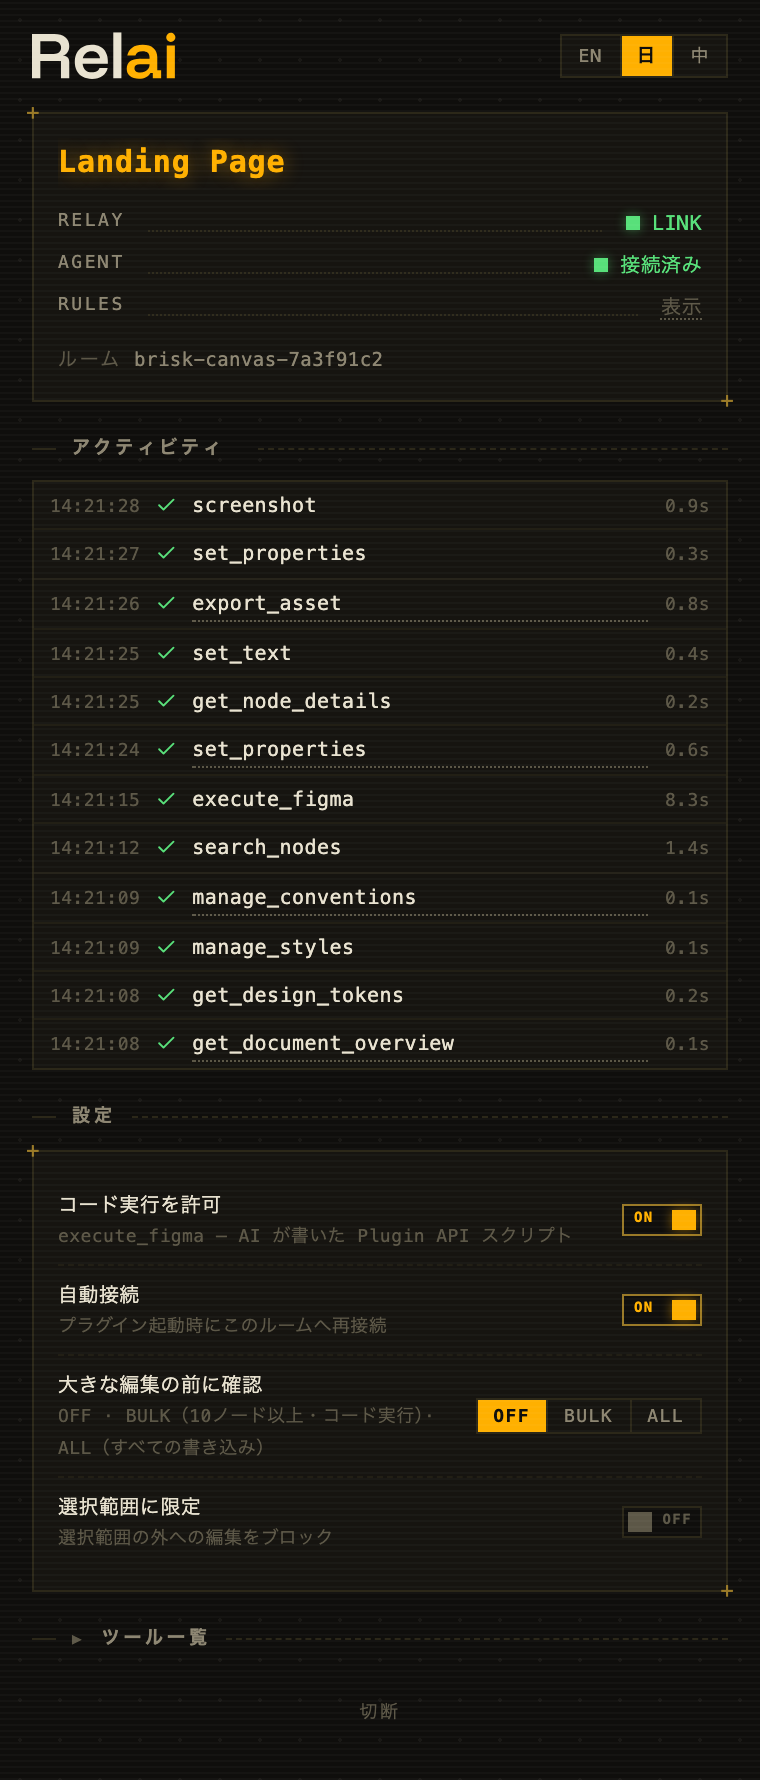
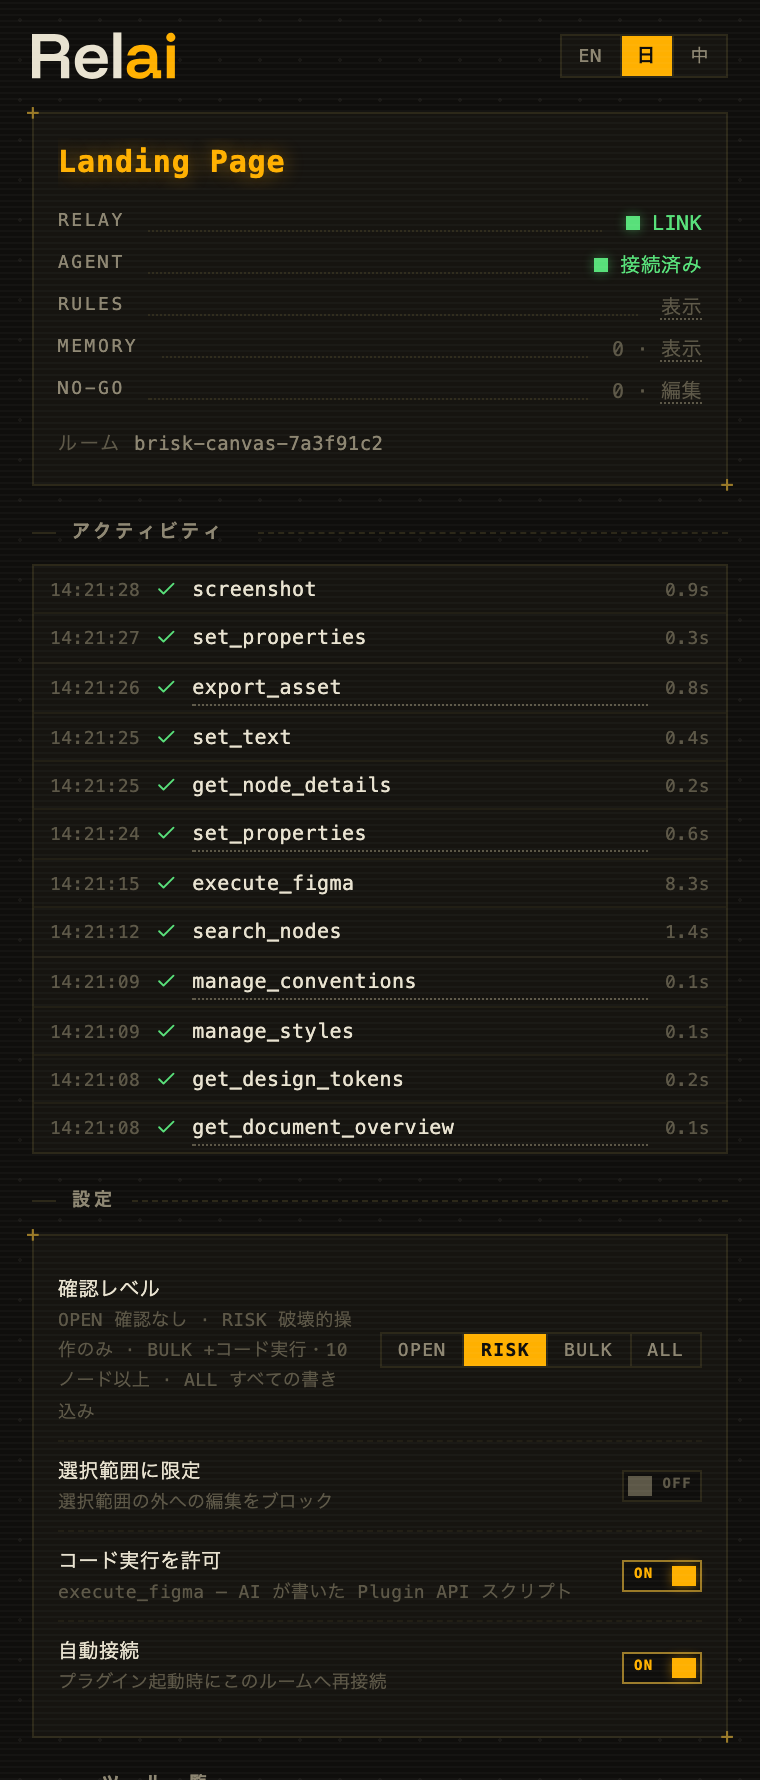
Site: NOW & NEXT — a plain statement of where this stands and where it goes; fresh panel shots
The outlook section says it flatly: today = thirty-two tools plus the laws
a file carries, built nightly inside one production design system; next =
rulings grow into rules, rules into enforcement, enforcement into review —
no generation races, nothing that acts without a trace, no dated promises.
Panel screenshots re-rendered for the law cluster + four-stop dial (both
sets, three locales). JA FAQ drops the Sino-flavored 禁区 for 立入禁止
(NO-GO).

Claude-Session: https://claude.ai/code/session_01LE9DxpFc66NXBEVTWs7co9

diff --git a/site/src/lib/translations.ts b/site/src/lib/translations.ts
@@ -90,6 +90,13 @@ export const translations = {
       ],
       caption: 'Numbers from real sessions on a production design system, July 2026.'
     },
+    outlook: {
+      eyebrow: 'NOW & NEXT',
+      title: 'Where this stands, and where it goes.',
+      p1: 'Today, Relai is thirty-two tools and a set of laws a file can carry: conventions you write, precedents you rule, pages you fence off. An agent reads them before working, asks at the level you set — one dial, four stops — and leaves receipts for everything. All of it is built and tested inside one production design system, nightly.',
+      p2: 'What comes next follows a single line: rulings grow into rules, rules into enforcement, enforcement into review. More of your judgment should outlive the session it happened in — promoted, with your consent, into things the file itself upholds. Someday, craft packs worth sharing between teams, with provenance. Not on the roadmap: generation races, and anything that acts without leaving a trace.',
+      p3: 'None of this is a promise with a date. It is a direction, checked against real work.'
+    },
     start: {
       eyebrow: 'GET STARTED',
       title: 'Three steps. No paid plan required.',
@@ -213,6 +220,13 @@ export const translations = {
       ],
       caption: '数値はすべて、実運用中のデザインシステムでの実セッションから。2026年7月。'
     },
+    outlook: {
+      eyebrow: 'NOW & NEXT',
+      title: 'いまの姿と、この先。',
+      p1: 'いまのRelaiは、32のツールと、ファイルが携える法——あなたが書く規約、あなたが下す判例、立ち入らせないページ——です。エージェントは働く前にそれを読み、あなたが決めたレベルで確認を取り（ダイヤルひとつ、4段階）、すべてに記録を残します。その全部が、ひとつの実運用デザインシステムの中で毎晩使われながら作られています。',
+      p2: 'この先は一本の線に沿って進みます。裁定は規約に、規約は執行に、執行はレビューに育っていく。あなたの判断が、その場かぎりで消えないこと——あなたの同意のもとで、ファイル自身が守るものへ昇格していくこと。いつか、出どころ付きでチーム間に共有できる工法集も。ロードマップに載らないもの:生成の速さ比べと、痕跡を残さず動くすべて。',
+      p3: '日付つきの約束ではありません。実際の仕事で確かめながら進む、方向です。'
+    },
     start: {
       eyebrow: 'GET STARTED',
       title: '3ステップ。有料プランは不要。',
@@ -233,7 +247,7 @@ export const translations = {
         { q: 'どのAIクライアントで動作しますか？', a: 'Claude Code、Cursor、Codexなど、あらゆるMCPクライアントで動作します。RelaiをMCPサーバーとして一度登録するだけです。' },
         { q: 'ファイルの内容はどこかに送られますか？', a: '新しい宛先はありません。リレーはローカルで動き、ファイルの内容はFigma、あなたのマシン、そして普段から信頼しているAIクライアントの間にとどまります。' },
         { q: 'ファイルは何を記憶しますか？消せますか？', a: '0.3から、ファイルは判例——あなたが下した裁定——を持てます。記録されるのは、あなたかAIが明示的に記録したときだけ。パネルのMEMORY行に全件が並び、いつでも削除できます。黙って記録されるものはありません。' },
-        { q: 'AIに触らせたくないページを守れますか？', a: 'はい。パネルでページ単位の「AI禁区」を設定でき、禁区への書き込みはディスパッチ段階で明確なエラーとして拒否されます。確認は4段階のダイヤル（OPEN · RISK · BULK · ALL）に統合されています。既定のRISKでは、破壊的操作（変数/スタイル削除・detach・flatten）だけが確認を求め、それ以外は流れます。ブランチ作業ならOPENへ。' },
+        { q: 'AIに触らせたくないページを守れますか？', a: 'はい。パネルでページ単位の立入禁止（NO-GO）を設定でき、対象ページへの書き込みはディスパッチ段階で明確なエラーとして拒否されます。確認は4段階のダイヤル（OPEN · RISK · BULK · ALL）に統合されています。既定のRISKでは、破壊的操作（変数/スタイル削除・detach・flatten）だけが確認を求め、それ以外は流れます。ブランチ作業ならOPENへ。' },
         { q: 'ウィンドウ間で何かをコピーする必要は？', a: 'ありません。ペアリングは自動です。join_roomツールは、同時に2つのFigmaファイルでプラグインを動かすまれなケース専用です。' },
         { q: 'AIにコードを実行させないことはできますか？', a: 'はい。execute_figmaはFigma Plugin APIを直接扱うエスケープハッチで、任意コード実行であることをドキュメントにも明記しています。望まない場合は「Allow code execution」をオフにしてください。' },
         { q: 'デザインの利用状況はどう理解しますか？', a: 'get_design_systemがファイルと使用中ライブラリを棚卸しし、AIは既存のコンポーネントとトークンから構築します。' }
@@ -335,6 +349,13 @@ export const translations = {
         { n: '25', label: '生产环境踩过的坑，已内置为提示' }
       ],
       caption: '数字来自生产环境设计系统的真实会话，2026年7月。'
+    },
+    outlook: {
+      eyebrow: 'NOW & NEXT',
+      title: '现在的样子，和接下来的路。',
+      p1: '今天的Relai，是32个工具，加上一套文件自己携带的法：你写下的规约、你裁定的判例、你圈出的禁区。agent开工前先读它们，按你定的档位来问——一个刻度盘，四档——做过的每件事都留痕。这一切，都是在一套生产中的设计系统里每晚边用边造出来的。',
+      p2: '接下来沿一条线走：裁决长成规约，规约长成执法，执法长成巡检。你的判断不该随会话消散——在你点头之后，升格为文件自己守护的东西。或许有一天，还有值得在团队之间共享的、带出处的工法集。不在路线图上的：生成速度的竞赛，和一切不留痕迹的动作。',
+      p3: '这些都不是带日期的承诺，是一个方向——在真实的工作里边验证边走。'
     },
     start: {
       eyebrow: 'GET STARTED',

diff --git a/site/src/components/landing/Outlook.tsx b/site/src/components/landing/Outlook.tsx
@@ -1,0 +1,22 @@
+import { useLanguage } from '../../lib/i18n';
+import { Kicker } from './Kicker';
+import { getCopy } from '../../lib/translations';
+
+export function Outlook() {
+  const { language } = useLanguage();
+  const copy = getCopy(language).outlook;
+
+  return (
+    <section className="w-full border-b border-border">
+      <div className="mx-auto w-full max-w-6xl px-5 py-16 md:py-24">
+        <Kicker>{copy.eyebrow}</Kicker>
+        <h2 className="mt-3 font-heading text-[1.7rem] font-semibold leading-tight tracking-tight md:text-[2.2rem]">{copy.title}</h2>
+        <div className="mt-8 max-w-3xl space-y-6">
+          <p className="text-[15px] leading-[1.9] text-foreground md:text-[17px]">{copy.p1}</p>
+          <p className="text-[15px] leading-[1.9] text-muted-foreground md:text-[17px]">{copy.p2}</p>
+          <p className="font-mono text-[13px] leading-relaxed text-muted-foreground">{copy.p3}</p>
+        </div>
+      </div>
+    </section>
+  );
+}

diff --git a/site/src/App.tsx b/site/src/App.tsx
@@ -10,6 +10,7 @@ import { Law } from './components/landing/Law';
 import { Changes } from './components/landing/Changes';
 import { Craft } from './components/landing/Craft';
 import { FieldNotes } from './components/landing/FieldNotes';
+import { Outlook } from './components/landing/Outlook';
 import { GetStarted } from './components/landing/GetStarted';
 import { Faq } from './components/landing/Faq';
 import { CtaFooter } from './components/landing/CtaFooter';
@@ -33,6 +34,7 @@ export function App() {
           <Changes />
           <Craft />
           <FieldNotes />
+          <Outlook />
           <GetStarted />
           <Faq />
         </main>
